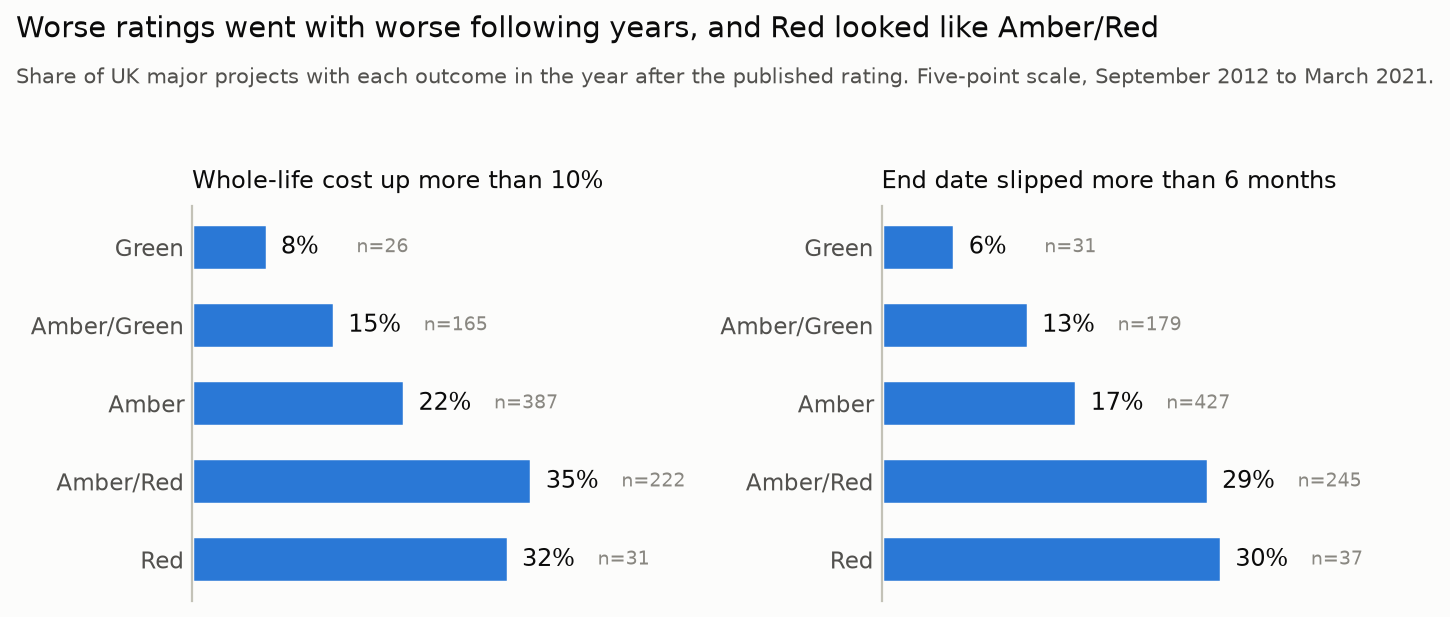
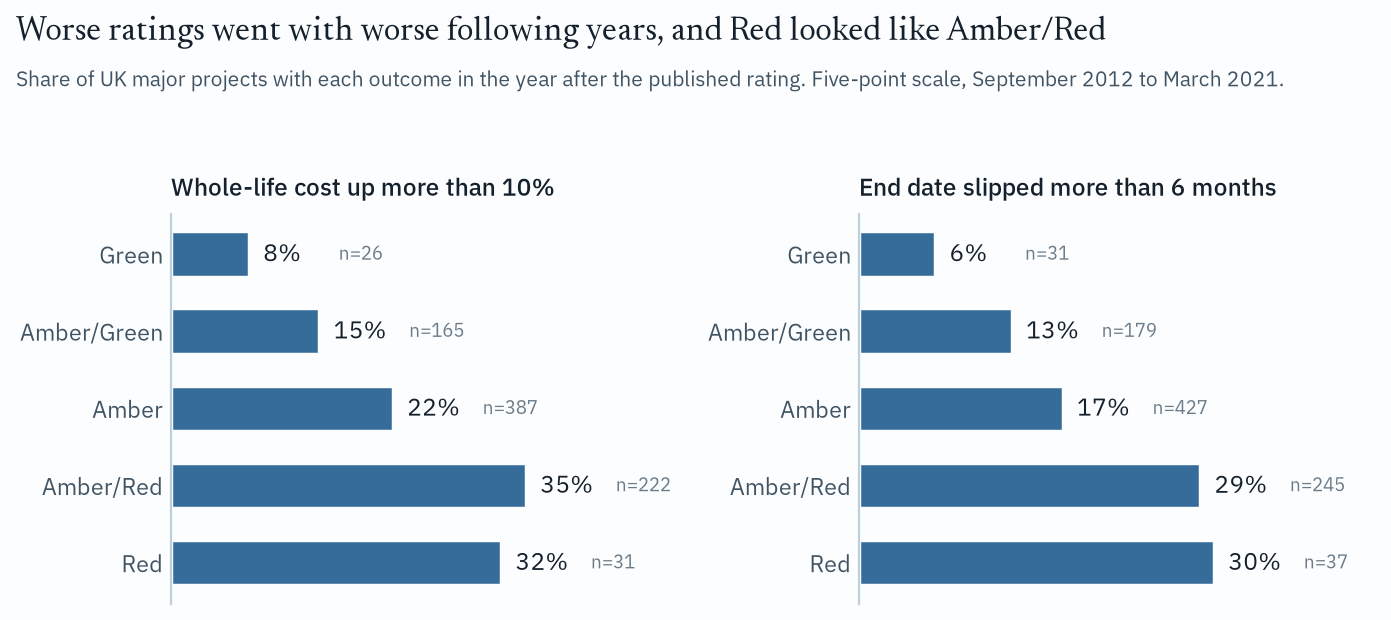
Add the landscape review; restyle the summary chart with Thesis tokens
docs/landscape.md: nearest prior work, evidence on ex-ante judgment, public data,
and source-selection rules, each linked to the source read. The README links it
in place of a local path. The sharing chart uses the Clear Horizon tokens.

diff --git a/gmpp/src/charts.py b/gmpp/src/charts.py
@@ -27,6 +27,9 @@ import matplotlib
 matplotlib.use("Agg")
 import matplotlib.pyplot as plt  # noqa: E402
 import numpy as np  # noqa: E402
+import os  # noqa: E402
+import re  # noqa: E402
+
 import pandas as pd  # noqa: E402
 
 from .paths import RESULTS_DIR  # noqa: E402
@@ -45,6 +48,47 @@ SERIES_2 = "#eb6834"
 DIVERGING_5 = ["#184f95", "#86b6ef", "#eceae3", "#ee8a5f", "#a52424"]
 DIVERGING_3 = ["#184f95", "#eceae3", "#a52424"]
 NON_RATING_GREY = "#898781"
+
+# Thesis Institute design tokens (thesis-design tokens.css, Clear Horizon palette), used by the
+# single-series summary chart. The two-series charts keep the validated neutral pair above:
+# horizon-700 with the rose accent fails colour-vision separation as a categorical pair
+# (protan delta E 4.3 in the dataviz validator), so they are not used side by side.
+THESIS = {
+    "paper": "#FCFDFE",
+    "text_primary": "#14202B",
+    "text_secondary": "#415463",
+    "text_tertiary": "#6B7C89",
+    "border_strong": "#BED0DB",
+    "horizon_700": "#356C99",
+    "font_display": "Newsreader",
+    "font_body": "IBM Plex Sans",
+}
+_FONT_DIRS = [
+    os.environ.get("THESIS_FONT_DIR", ""),
+    os.path.expanduser("~/Library/Fonts"),
+    "/Library/Fonts",
+    "/usr/share/fonts",
+    "/usr/local/texlive/2026/texmf-dist/fonts/opentype/ibm/plex",
+]
+
+
+def _thesis_fonts() -> tuple[str, str]:
+    """Register Newsreader and IBM Plex Sans if present; fall back to matplotlib's defaults."""
+    from matplotlib import font_manager as fm
+
+    for d in _FONT_DIRS:
+        if d and os.path.isdir(d):
+            for name in os.listdir(d):
+                if re.match(r"(?i)(newsreader|ibmplexsans-(regular|medium|semibold|bold)).*\.(ttf|otf)$", name):
+                    try:
+                        fm.fontManager.addfont(os.path.join(d, name))
+                    except Exception:  # noqa: BLE001
+                        pass
+    have = {f.name for f in fm.fontManager.ttflist}
+    display = THESIS["font_display"] if THESIS["font_display"] in have else "DejaVu Serif"
+    body = THESIS["font_body"] if THESIS["font_body"] in have else "DejaVu Sans"
+    return display, body
+
 
 HEADLINE = [
     ("wlc_growth_1y_gt_10", "Whole-life cost up more than 10%"),
@@ -285,41 +329,52 @@ def chart_summary_for_sharing(cal: pd.DataFrame) -> None:
         ("slip_1y_gt_6m", "End date slipped more than 6 months"),
     ]
     block = cal[cal["scale"] == "five_point"]
+    display, body = _thesis_fonts()
     fig, axes = _figure(1, 2, (8.75, 3.7))
+    fig.patch.set_facecolor(THESIS["paper"])
     for ax, (outcome, title) in zip(axes, panels):
         sub = block[block["outcome"] == outcome].set_index("rating")
         order = [r for r in FIVE_POINT if r in sub.index]
         ys = np.arange(len(order))[::-1]
         values = [float(sub.loc[r, "observed_rate"]) for r in order]
         counts = [int(sub.loc[r, "n"]) for r in order]
-        ax.barh(ys, values, height=0.6, color=SERIES_1, edgecolor=SURFACE,
+        ax.barh(ys, values, height=0.6, color=THESIS["horizon_700"], edgecolor=THESIS["paper"],
                 linewidth=2)
         for y, v, n in zip(ys, values, counts):
             # Offsets in points, so the two labels never collide whatever the x-range.
             ax.annotate(f"{v:.0%}", (v, y), xytext=(6, 0), textcoords="offset points",
-                        va="center", ha="left", fontsize=11, color=INK)
+                        va="center", ha="left", fontsize=11, color=THESIS["text_primary"],
+                        fontfamily=body)
             ax.annotate(f"n={n}", (v, y), xytext=(40, 0), textcoords="offset points",
-                        va="center", ha="left", fontsize=8.5, color=INK_MUTED)
+                        va="center", ha="left", fontsize=8.5, color=THESIS["text_tertiary"],
+                        fontfamily=body)
         _style(ax)
+        ax.set_facecolor(THESIS["paper"])
         ax.grid(False)
         ax.spines["bottom"].set_visible(False)
+        ax.spines["left"].set_color(THESIS["border_strong"])
         ax.set_yticks(ys)
-        ax.set_yticklabels(order, fontsize=10.5, color=INK_SECONDARY)
+        ax.set_yticklabels(order, fontsize=10.5, color=THESIS["text_secondary"], fontfamily=body)
         ax.set_xticks([])
         ax.set_xlim(0, max(values) * 1.45)
-        ax.set_title(title, fontsize=11, color=INK, loc="left", pad=8)
+        ax.set_title(title, fontsize=11, color=THESIS["text_primary"], loc="left", pad=8,
+                     fontfamily=body, fontweight="medium")
     fig.suptitle(
         "Worse ratings went with worse following years, and Red looked like Amber/Red",
-        fontsize=13, color=INK, x=0.012, ha="left", y=1.03,
+        fontsize=15, color=THESIS["text_primary"], x=0.012, ha="left", y=1.035,
+        fontfamily=display,
     )
     fig.text(
         0.012, 0.915,
         "Share of UK major projects with each outcome in the year after the "
         "published rating. Five-point scale, September 2012 to March 2021.",
-        fontsize=9.5, color=INK_SECONDARY, ha="left",
+        fontsize=9.5, color=THESIS["text_secondary"], ha="left", fontfamily=body,
     )
     fig.tight_layout(rect=(0, 0, 1, 0.9))
-    _save(fig, "chart_summary_for_sharing.png")
+    path = RESULTS_DIR / "chart_summary_for_sharing.png"
+    fig.savefig(path, dpi=160, facecolor=THESIS["paper"], bbox_inches="tight")
+    plt.close(fig)
+    print(f"wrote {path.name} (fonts: {display}, {body})")
 
 
 def chart_auc_over_time(by_snapshot: pd.DataFrame) -> None:

diff --git a/docs/landscape.md b/docs/landscape.md
@@ -1,0 +1,55 @@
+# Forecasting procurement outcomes: who has tried, and what public data supports it
+
+Reviewed September 2026 by the Thesis Institute. Every claim links to the source we read; where we could not open a primary source we say so.
+
+## The gap
+
+We found no system, in government, academia, commerce, or civic technology, that registers a forecast of a contract's outcome at or before award, resolves it against an official record, and publishes the score. The parts exist separately: retrospective models of cost overrun, reference class forecasting, corruption risk flags, funders that forecast their own grants, and one statutory program that compares predicted with actual results. No one has joined them into a loop.
+
+## Nearest work
+
+| What exists | Who | What it does | What it leaves open |
+|---|---|---|---|
+| Probabilistic predictions written at grant decisions, scored later | [Open Philanthropy](https://forum.effectivealtruism.org/posts/RjNFyJS3jPb4DA7wA/how-accurate-are-open-phil-s-predictions): 2,850 predictions, 743 scored, Brier 0.217, overconfident above 90 percent. [GiveWell](https://blog.givewell.org/2024/11/08/making-predictions-about-our-grants/) publishes forecasts on grant pages and [looks back](https://www.givewell.org/research/lookbacks/Dispensers-for-Safe-Water-2025): 7 of 13 forecasts on one grant resolved yes against 65 percent mean confidence | Proves the workflow inside a funder | Internal, small, resolved by the funder itself |
+| Statutory predicted-versus-actual studies | US Federal Transit Administration Before-and-After Studies; [GAO-23-105479](https://www.gao.gov/products/gao-23-105479) reports 86 percent of projects within 10 percent on capital cost and 48 percent within 20 percent on ridership | A pre-registered forecast, resolved and published by law | Tens of projects, a decade of lag, PDFs, no score |
+| A published delivery-confidence rating on every major project | UK Infrastructure and Projects Authority, now NISTA, [annually since 2013](https://www.gov.uk/government/collections/major-projects-data) | A dated, public forecast of delivery | Never scored against what followed; [`gmpp/`](../gmpp/results/report.md) scores it |
+| Models of overrun from bidding-stage variables | [Moon et al. 2020](https://doi.org/10.1080/13467581.2020.1765171): 234 Korean public projects, 61 percent accuracy. [Jacques de Sousa et al. 2024](https://www.emerald.com/ecam/article/31/13/285-302/1232829): 4,772 Portuguese construction contracts, 85.5 percent accuracy, 68.3 percent once the publication-year feature is dropped | Predicts a real cost outcome before award | Retrospective, unregistered, one country each |
+| Early-warning model on open contracting data | [Gallego, Rivero and Martínez 2021](https://pmc.ncbi.nlm.nih.gov/articles/PMC7368425/): Colombia's SECOP, AUC 0.79 to 0.91 for fines, breach listings and contract extensions | Outcome prediction on public procurement records | Retrospective; the authors warn that award choices already reflect risk |
+| Reference class forecasting | [Flyvbjerg 2006](https://arxiv.org/abs/1302.3642), first applied for the UK Department for Transport in 2004; the Edinburgh Tram and Crossrail were [early cases](https://ora.ox.ac.uk/objects/uuid:82761425-46df-4200-9ef1-b611d73433af) | A base-rate forecast of overrun at appraisal | We found no public release of the underlying project database, and no published scoring of the forecasts against outturns |
+| Predicting World Bank project ratings | [Geli, Kraay and Nobakht 2014](https://ideas.repec.org/p/wbk/wbrwps/7001.html): early project characteristics beat staff self-ratings. [Jordan, Honig and Tsai](https://mitgovlab.org/events/evaluating-20000-world-bank-development-projects-can-machine-learning-help-predict-which-projects-will-succeed-or-fail/): embeddings of 20,000 project documents | Appraisal information to an independent outcome rating | No registration, and no public joined dataset until [`worldbank/`](../worldbank/results/report.md) |
+| Vendor ratings tied to future awards | [Decarolis, Spagnolo and Pacini](https://www.nber.org/papers/w22814): at an Italian utility, supplier performance rose from 25 to 90 percent of audited parameters and held for ten years | Shows that scored outcomes change supplier behaviour | Proprietary data; ratings look backward |
+| The US past-performance mandate | The overhauled [FAR 15.104(b)(3)](https://www.acquisition.gov/far-overhaul/far-part-deviation-guide/far-overhaul-part-15) keeps "Past performance must be evaluated in every competitive source selection" | Every competition already judges each offeror's record | Ratings are closed ([FAR 42.1503](https://www.acquisition.gov/far/42.1503)) and unscored; a 25-year retrospective on the reforms found it "[hard to say that the system's performance has improved](https://www.washingtontechnology.com/2017/12/reinventing-government-turns-25/357979/)" |
+| A public vendor scoreboard | [Texas Vendor Performance Tracking System](https://comptroller.texas.gov/purchasing/programs/vendor-performance-tracking/): agencies grade vendors A to F; D and F grades wait 30 days for a vendor response | Shows public vendor grades are workable | Grades past work; forecasts nothing |
+| Corruption and irregularity flags | [Open Contracting Partnership](https://www.open-contracting.org/resources/red-flags-in-public-procurement-a-guide-to-using-data-to-detect-and-mitigate-risks/) (73 indicators), [ChileCompra](https://www.open-contracting.org/2019/06/06/red-flags-in-chile/), Ukraine's [DOZORRO](https://oecd-opsi.org/innovations/dozorro/) | Scores tenders on public data before award | Flags risk of misconduct, a different target from delivery; none publishes calibration |
+| Opportunity scoring sold to bidders | For example [Deltek GovWin IQ](https://www.deltek.com/en/government-contracting/govwin), whose "Smart Fit Scores give visibility into your best-fit leads" | Commercial prediction inside procurement | Helps a contractor choose what to bid on, and says nothing about what happens after award |
+| Schedule forecasting for project owners | [nPlan](https://www.nplan.io/): trained on 750,000 historical construction schedules; Network Rail and HS2 among its customers | Forecasts delivery outcomes commercially | Works on schedules already under contract; no published backtest |
+| AI inside US source selection | The Army's experimental FAST TRACK tool is the subject of [TRAX International's Court of Federal Claims suit](https://www.defenseone.com/policy/2026/08/ai-army-contract-lawsuit/415261/) after [GAO denied the protest](https://www.gao.gov/products/b-424271,b-424271.2,b-424271.3); an [Army SBIR topic](https://armysbir.army.mil/topics/ai-enabled-source-selection-solution-for-contract-proposal-evaluation/) seeks evaluation software; a [DHS pilot](https://fedscoop.com/dhs-artificial-intelligence-past-performance-data-procurement-innovation-lab/) retrieved relevant past-performance records | Government is experimenting | Workflow and retrieval; the live legal question is documentation of what the tool contributed |
+| Pre-registered metrics for procurement reform | [Madeline Hart, "Keeping Score on Procurement Reform"](https://www.defensetechacquisition.com/p/keeping-score-on-procurement-reform): four spending metrics and a stated success threshold for fiscal year 2026 | A public, checkable prediction about procurement | Aggregates for a reform agenda, where this project scores individual awards |
+
+## How well ex-ante judgment predicts outcomes
+
+Grantmaking has measured this more than procurement has. Within the fundable range, NIH percentile scores discriminate later productivity at AUC 0.54 across 102,740 grants ([Fang, Bowen and Casadevall 2016](https://elifesciences.org/articles/13323)), and reviewers given the same applications agree with each other at an intraclass correlation of zero ([Pier et al. 2018](https://pmc.ncbi.nlm.nih.gov/articles/PMC5866547/)). Explicit forecasts do better: markets picked which studies would replicate 73 percent of the time across 103 findings ([Gordon et al. 2021](https://journals.plos.org/plosone/article?id=10.1371/journal.pone.0248780)). Across 53,298 forecasts of 100 social-science projects, raw forecasts underperformed a constant at the mean, and shrunk crowd forecasts beat it by about 10 percent ([DellaVigna and Vivalt 2026](https://sdellavi.com/pdf/DellaVignaVivaltSSPP_paper.pdf)). A procurement scoreboard should therefore publish base rates first and report skill above them.
+
+## Public data that pairs award-time information with later outcomes
+
+| Source | Known at award | Outcome and how it resolves | Are losing bids visible? |
+|---|---|---|---|
+| [USAspending](https://api.usaspending.gov/docs/endpoints) (US federal) | Contract type, competition, offers received, set-aside, product and industry codes, office, ceiling, planned dates | Each later action carries a reason-for-modification code, the change in ceiling, and the current end date, so ceiling growth, schedule slip and termination resolve from monthly archives. See [`usaspending/`](../usaspending/results/report.md) | No |
+| [UK major projects data](https://www.gov.uk/government/collections/major-projects-data) | Rating, description, baselines, dates | The next year's rating, whole-life cost and end date. See [`gmpp/`](../gmpp/results/report.md) | Not applicable |
+| World Bank [documents API](https://documents.worldbank.org/en/publication/documents-reports/api) and [IEG ratings](https://financesone.worldbank.org/ieg-world-bank-project-performance-ratings/DS00053) | Full appraisal document text | Independent outcome rating, keyed on the project number. See [`worldbank/`](../worldbank/results/report.md) | Not applicable |
+| Ukraine [Prozorro](https://public-api.prozorro.gov.ua/api/2.5/tenders) | Every bidder's identity and price, tender terms, buyer | Typed contract changes in the registry, including duration extensions. See [`prozorro/`](../prozorro/results/report.md) | Yes |
+| [AusTender](https://data.open-contracting.org/en/publication/19) and [Paraguay DNCP](https://data.open-contracting.org/en/publication/63) via the Open Contracting registry | Buyer, supplier, method, value | Contract amendments (Australia); payments and milestones (Paraguay) | Paraguay names tenderers |
+| [SBIR.gov](https://www.sbir.gov/data-resources) | Phase I award abstracts | A later Phase II award | No |
+| UK [contract performance notices](https://www.gov.uk/government/publications/procurement-act-2023-guidance-documents-manage-phase/guidance-contract-performance-notices-html) | Contract and supplier | From 2026, contracts above £5 million get a published rating on a fixed four-point scale at least yearly | No |
+
+US contractor performance ratings (CPARS) would be the richest label and are closed by regulation. Losing proposals stay confidential in most systems, so a forecast for a bid that lost never resolves; this project scores the awarded contract and tests bidder-level signal where bids are public.
+
+## Rules for using a forecast inside source selection
+
+In the United States, every factor that affects award must be stated in the solicitation ([FAR 15.304](https://www.acquisition.gov/far/15.304)), and an offeror with no record "may not be evaluated favorably or unfavorably on past performance" ([FAR 15.305](https://www.acquisition.gov/far/15.305)). The United Kingdom's guidance on AI in procurement asks authorities to check that tender commitments are deliverable and supplies no method ([PPN 017, summarised by Burges Salmon](https://www.burges-salmon.com/articles/102k15q/improving-transparency-of-ai-use-in-public-procurement-ppn-017-published/)). A scoreboard that runs outside the award process, on public records, touches none of these rules. Advisory use inside an evaluation needs disclosure in the solicitation and neutral treatment of new entrants.
+
+## What we could not verify
+
+- An Institute for Defense Analyses study reported to find that text models could not beat chance on defense program outcomes; we could not open the paper.
+- Whether the historical feeds of the US Federal IT Dashboard, which paired risk ratings with realised variance, remain retrievable after its 2026 sunset.
+- How often the FPDS solicitation identifier links an award to its SAM.gov solicitation; [`usaspending/`](../usaspending/results/report.md) measures the fill rate at 43 to 69 percent of base awards by year, and link quality beyond that is unmeasured.

diff --git a/README.md b/README.md
@@ -10,7 +10,7 @@ Three workstreams, each in its own directory with its own README, tests, and `re
 
 Conventions: Python 3.12+, `uv`, `pytest`. Raw downloads live under `data/raw/` (gitignored). Every number in a report traces to a script in this repo. Sentence case headings. No emoji.
 
-Background memo: `~/chief-of-staff/state/procurement-thesify/memo.md` (2026-09-15).
+Background: [who has tried this, and what public data supports it](docs/landscape.md).
 
 ## Results, first pass (2026-09-16)
 
